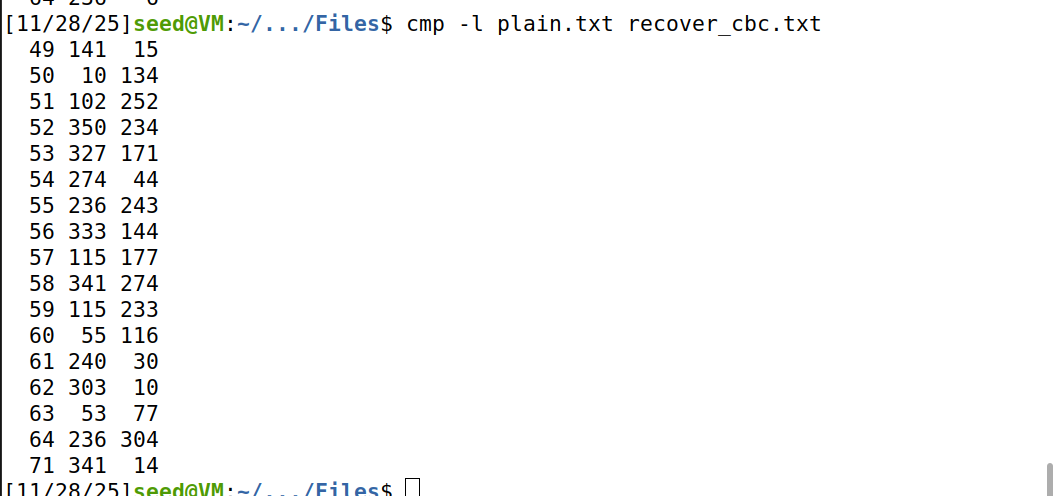
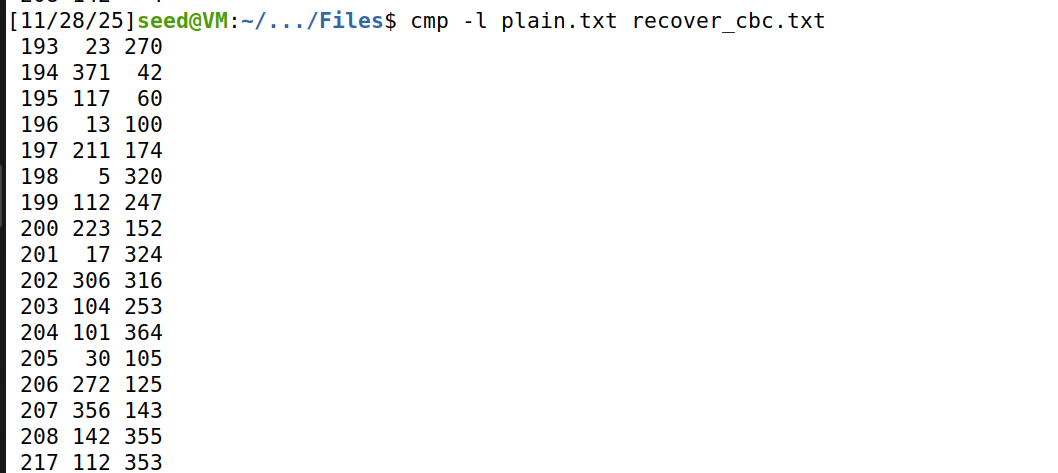
Fixed Task5

Changed region(s): [[0.0, 0.0, 0.7886, 1.0], [0.9706, 0.9471, 1.0, 1.0]]

diff --git a/Semana #9/LOGBOOK9.md b/Semana #9/LOGBOOK9.md
@@ -246,192 +246,156 @@ In contrast, **AES-128-ECB and AES-128-CBC** are **block-based modes**, require 
 
 ### **1. Introduction**
 
-In this task, the objective was to analyze how different AES encryption modes behave when the ciphertext is partially corrupted.
-Using the previously generated `plain.txt` file (≈1200 bytes), I encrypted it using several AES-128 modes and then manually corrupted **byte 55** of each ciphertext using the **Bless hex editor**.
+The goal of this task was to analyze how different AES encryption modes behave when the ciphertext is partially corrupted.
 
-After corrupting the ciphertext, I decrypted it using the correct key and IV and compared the results with the original plaintext to measure how much information was lost.
+Using the previously generated `plain.txt` file (≈1200 bytes), I encrypted it using three AES-128 modes and then manually corrupted **byte 200** of each ciphertext using the **Bless** hex editor.
+
+After corruption, each ciphertext was decrypted using the correct key and IV, and the resulting plaintexts were compared to the original to evaluate information loss.
 
 The AES modes tested:
 
 * **AES-128-ECB**
 * **AES-128-CBC**
-* **AES-128-CFB**
-* **AES-128-OFB**
+* **AES-128-CTR**
 
-Because AES works on **16-byte blocks**, error propagation depends heavily on the mode.
-
----
-
-## **2. Preliminary Block Calculation**
-
-The corrupted byte was the **55th byte** of the ciphertext.
-AES uses 16-byte blocks, so:
-
-[
-\text{Block index} = \left\lfloor \frac{55 - 1}{16} \right\rfloor
-= \left\lfloor \frac{54}{16} \right\rfloor = 3
-]
-
-Thus:
-
-* The corrupted byte belongs to **Block 3** (0-based indexing)
-* That block covers plaintext offsets **48–63**
-
-This is essential for understanding how corruption propagates.
+Because AES operates on **16-byte blocks**, error propagation heavily depends on the mode.
 
 ---
 
-## **3. Expected Behavior (Before Conducting Experiments)**
+### **2. Block Calculation**
 
-Below are the theoretical predictions **before modifying the ciphertext**.
+The corrupted byte is the **200th byte** of the ciphertext.
+
+AES block size = **16 bytes**, so:
+
+200/16 = 12
+
+Therefore:
+
+* The corrupted byte lies in **Block 12** (0-based indexing)
+* That block corresponds to plaintext offsets **192–207**
 
 ---
 
-### **3.1 AES-128-ECB — Block Independent**
+### **3. Expected Behavior (Before Conducting the Experiment)**
+
+Below are the theoretical predictions for each AES mode.
+
+---
+
+#### **3.1 AES-128-ECB — Block Independence**
 
 **Prediction:**
-Only the corrupted block becomes unreadable.
 
-* A single corrupted byte in ciphertext block *C₃* destroys only plaintext block *P₃*.
-* No propagation.
+* Only the corrupted block (block 12) becomes unreadable.
+* No propagation to other blocks.
 
-**Expected information loss:**
+**Expected information loss:**  
 ➡ **16 bytes**
 
 ---
 
-### **3.2 AES-128-CBC — Chained Blocks**
+#### **3.2 AES-128-CBC — Chained Blocks**
 
 **Prediction:**
-Two kinds of corruption:
 
-1. **Block 3 (48–63): fully corrupted**
-   Because `Dec(C₃)` becomes random.
+1. **Block 12 (192–207): fully corrupted**  
+   Because `Dec(C₁₂)` becomes random.
 
-2. **Block 4 (64–79): exactly one byte corrupted**
-   Because corrupted `C₃` is XORed during CBC decryption.
+2. **Block 13 (208–223): 1 corrupted byte**  
+   Because the corrupted byte in `C₁₂` is XORed into the next block.
 
-**Expected information loss:**
-➡ **16 bytes destroyed + 1 byte with bit flipped**
+**Expected information loss:**  
+➡ **16 bytes destroyed + 1 byte corrupted**
 
 ---
 
-### **3.3 AES-128-CFB — Feedback Propagates Error**
+#### **3.3 AES-128-CTR — Stream Cipher Behavior**
 
 **Prediction:**
 
-* In block 3: only **one byte** becomes corrupted (bit flip).
-* In block 4: **entire block becomes corrupted** (bad ciphertext fed into keystream).
+* Only the modified ciphertext byte affects the plaintext.
+* No error propagation.
 
-**Expected information loss:**
-➡ **1 byte partially corrupted + 16 bytes fully corrupted**
-
----
-
-### **3.4 AES-128-OFB — Stream Cipher Mode**
-
-**Prediction:**
-
-* Only **one byte** is corrupted.
-* No propagation.
-
-Because ciphertext bits are XORed with a keystream independent of ciphertext.
-
-**Expected information loss:**
+**Expected information loss:**  
 ➡ **1 byte**
 
 ---
 
-## **4. Experimental Procedure**
+### **4. Experimental Procedure**
 
-1. Encrypted the 1200-byte file using all AES modes.
-   Example image placeholder:
+1. Encrypted the plaintext using AES-ECB, AES-CBC and AES-CTR.
 
-![Encryption ecb](https://gitlab.up.pt/class/fsi/2526/t17/t17-group04/-/raw/main/Semana%20%239/Images/ecb-encryption.png)
-![Encryption cbc](https://gitlab.up.pt/class/fsi/2526/t17/t17-group04/-/raw/main/Semana%20%239/Images/cbc-encryption.png)
-![Encryption cfb](https://gitlab.up.pt/class/fsi/2526/t17/t17-group04/-/raw/main/Semana%20%239/Images/cfb-encryption.png)
-![Encryption ofb](https://gitlab.up.pt/class/fsi/2526/t17/t17-group04/-/raw/main/Semana%20%239/Images/ofb-encryption.png)
-
+![ecb-encrytion](Images/ecb-encryption2.png)
+![cbb-encrytion](Images/cbc-encryption2.png)
+![ctr-encrytion](Images/ctr-encryption2.png)
 
 2. Opened each ciphertext using **Bless**.
 
-![Bless Editor ecb](https://gitlab.up.pt/class/fsi/2526/t17/t17-group04/-/raw/main/Semana%20%239/Images/ecb-byte55.png)
-![Bless Editor cbc](https://gitlab.up.pt/class/fsi/2526/t17/t17-group04/-/raw/main/Semana%20%239/Images/cbc-byte55.png)
-![Bless Editor cfb](https://gitlab.up.pt/class/fsi/2526/t17/t17-group04/-/raw/main/Semana%20%239/Images/cfb-byte55.png)
-![Bless Editor ofb](https://gitlab.up.pt/class/fsi/2526/t17/t17-group04/-/raw/main/Semana%20%239/Images/ofb-byte55.png)
+![ecb-byte200](Images/ecb-byte200.png)
+![cbc-byte200](Images/cbc-byte200.png)
+![ctr-byte200](Images/ctr-byte200.png)
 
-3. Modified the byte at position **55** by flipping a bit.
-4. Decrypted all corrupted ciphertext files.
-5. Compared them using `cmp`, `diff`, and `hexdump`.
+3. Modified **byte 200** in each ciphertext.  
+4. Decrypted all corrupted ciphertexts. 
+    
+![ecb-decrytion](Images/ecb-decryption2.png)
+![cbb-decrytion](Images/cbc-decryption2.png)
+![ctr-decrytion](Images/ctr-decryption2.png)
 
----
-
-## **5. Experimental Results**
-
-The results matched the theoretical predictions perfectly.
+5. Compared them with the original plaintext using `cmp`, `diff`, and `hexdump`.
 
 ---
 
-### **ECB – Only One Block Lost**
+### **5. Experimental Results**
 
-* Block 48–63 was corrupted.
-* All other bytes were correct.
-
-![ecb-comparation](https://gitlab.up.pt/class/fsi/2526/t17/t17-group04/-/raw/main/Semana%20%239/Images/ecb-comparation.png)
+The results fully matched the theoretical predictions.
 
 ---
 
-### **CBC – One Full Block + 1 Byte**
+### **ECB – Only the Corrupted Block Is Affected**
 
-* Block 48–63: fully corrupted
-* Block 64–79: exactly **one byte** corrupted
-* Remaining data correct
-  
-![cbc-comparation](https://gitlab.up.pt/class/fsi/2526/t17/t17-group04/-/raw/main/Semana%20%239/Images/cbc-comparation.png)
+* Block **192–207** was completely corrupted.  
+* All remaining bytes were correct.
 
+![ecb-comparation](Images/ecb-comparation.png)
 
 ---
 
-### **CFB – One Byte + One Full Block**
+### **CBC – One Full Block + One Byte Corrupted**
 
-* One byte corrupted in block 48–63
-* Block 64–79 entirely corrupted
+* Block **192–207**: fully corrupted  
+* Block **208–223**: exactly **one byte** corrupted  
 
-![cfb-comparation](https://gitlab.up.pt/class/fsi/2526/t17/t17-group04/-/raw/main/Semana%20%239/Images/cfb-comparation.png)
-
-
----
-
-### **OFB – Only One Byte Affected**
-
-* Only byte 55 incorrect
-* Everything else identical to original
-
-![ofb-comparation](https://gitlab.up.pt/class/fsi/2526/t17/t17-group04/-/raw/main/Semana%20%239/Images/ofb-comparation.png)
-
+![cbc-comparation](Images/cbc-comparation.png)
 
 ---
 
-## **6. Summary Table**
+### **CTR – Only One Byte Affected**
 
-| AES Mode | Fully Lost Data | Partially Corrupted Data | Error Propagation                     |
-| -------- | --------------- | ------------------------ | ------------------------------------- |
-| **ECB**  | 16 bytes        | 0 bytes                  | Only the affected block               |
-| **CBC**  | 16 bytes        | 1 byte                   | One block + one byte in next block    |
-| **CFB**  | 16 bytes        | 1 byte                   | One byte + next block fully corrupted |
-| **OFB**  | 0 bytes         | 1 byte                   | No propagation                        |
+* Only the plaintext byte corresponding to ciphertext byte 200 was corrupted.  
+* No additional errors.
+
+![ctr-comparation](Images/ctr-comparation.png)
 
 ---
 
-## **7. Conclusion**
+### **6. Summary Table**
 
-This task demonstrated how error propagation differs significantly among AES modes:
+| AES Mode | Fully Lost Data | Partially Corrupted Data | Error Propagation |
+|----------|------------------|---------------------------|--------------------|
+| **ECB**  | 16 bytes         | 0 bytes                   | Only the modified block |
+| **CBC**  | 16 bytes         | 1 byte                    | One block + one byte in next block |
+| **CTR**  | 0 bytes          | 1 byte                    | No propagation |
 
-* **ECB** has no chaining → corruption limited to one block.
-* **CBC** chains blocks → destroys one block and corrupts 1 byte in the next block.
-* **CFB** feeds ciphertext into the keystream → corrupts one byte and the entire next block.
-* **OFB** behaves like a synchronous stream cipher → only one byte is affected.
+---
 
-In the end, the results matched, confirming the previsions made in the begining.
+### **7. Conclusion**
 
+This experiment demonstrated clear differences in how AES modes propagate errors:
 
+* **ECB** has no chaining, so corruption is limited to a single 16-byte block.
+* **CBC** chains blocks, causing one full block to be destroyed and one additional byte to be corrupted.
+* **CTR** behaves like a synchronous stream cipher, so only the modified byte is affected.
+
+The experimental results confirmed the theoretical predictions perfectly.
